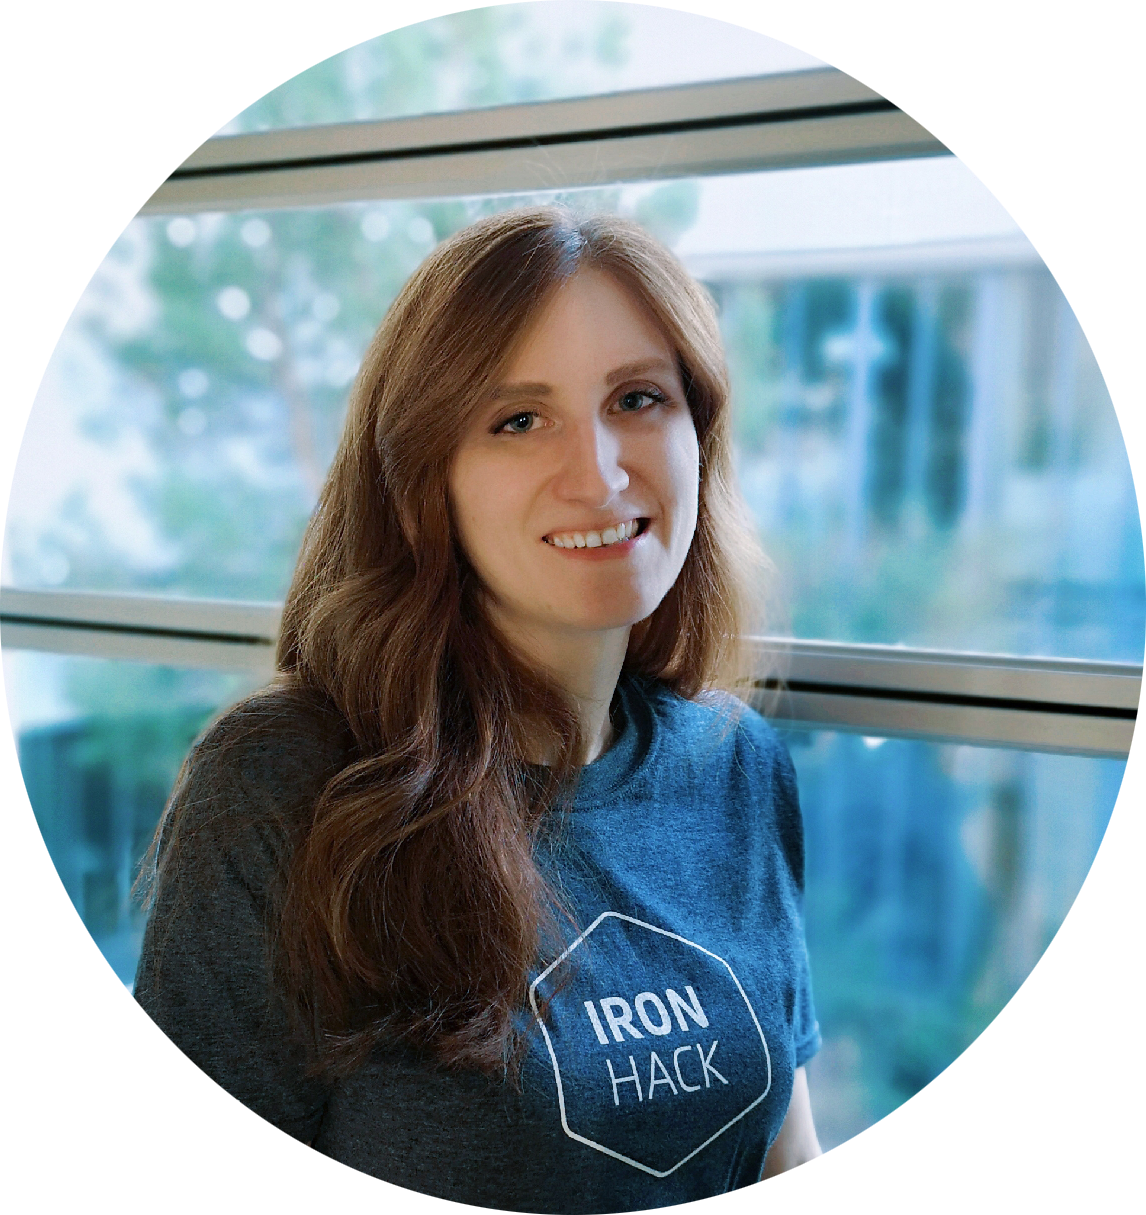
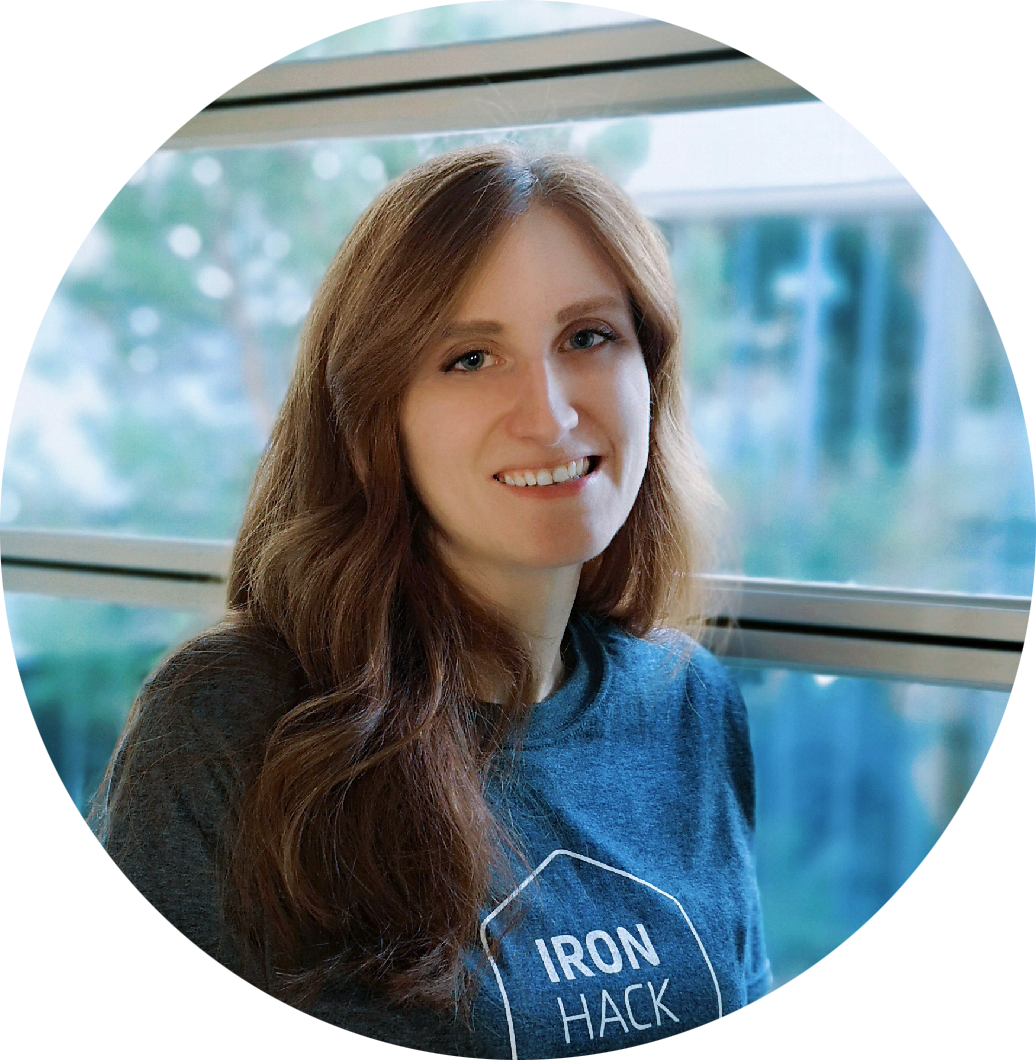
adjusting photo

diff --git a/css/new-age.min.css b/css/new-age.min.css
@@ -2,4 +2,4 @@
  * Start Bootstrap - New Age v5.0.7 (https://startbootstrap.com/template-overviews/new-age)
  * Copyright 2013-2019 Start Bootstrap
  * Licensed under MIT (https://github.com/BlackrockDigital/startbootstrap-new-age/blob/master/LICENSE)
- */body,html{width:100%;height:100%}body{font-family:Muli,Helvetica,Arial,sans-serif}a{color:#fdcc52;transition:all .35s;margin:5px;}a:focus,a:hover{color:#fcbd20}hr{max-width:100px;margin:20px auto 0;border-width:1px;border-color:rgba(34,34,34,.1)}hr.light{border-color:#fff}h1,h2,h3,h4,h5,h6{font-family:Catamaran,Helvetica,Arial,sans-serif;font-weight:200;letter-spacing:1px}p{font-size:18px;line-height:1.5;margin-bottom:20px}section{padding:100px 0}section h2{font-size:50px}#mainNav{border-color:rgba(34,34,34,.05);background-color:#fff;transition:all .35s;font-family:Catamaran,Helvetica,Arial,sans-serif;font-weight:200;letter-spacing:1px}#mainNav .navbar-brand{color:#fdcc52;font-family:Catamaran,Helvetica,Arial,sans-serif;font-weight:200;letter-spacing:1px}#mainNav .navbar-brand:focus,#mainNav .navbar-brand:hover{color:#fcbd20}#mainNav .navbar-toggler{font-size:12px;padding:8px 10px;color:#222}#mainNav .navbar-nav>li>a{font-size:11px;font-family:Lato,Helvetica,Arial,sans-serif;letter-spacing:2px;text-transform:uppercase}#mainNav .navbar-nav>li>a.active{color:#fdcc52!important;background-color:transparent}#mainNav .navbar-nav>li>a.active:hover{background-color:transparent}#mainNav .navbar-nav>li>a,#mainNav .navbar-nav>li>a:focus{color:#222}#mainNav .navbar-nav>li>a:focus:hover,#mainNav .navbar-nav>li>a:hover{color:#fdcc52}@media (min-width:992px){#mainNav{border-color:transparent;background-color:transparent}#mainNav .navbar-brand{color:fade(white,70%)}#mainNav .navbar-brand:focus,#mainNav .navbar-brand:hover{color:#fff}#mainNav .navbar-nav>li>a,#mainNav .navbar-nav>li>a:focus{color:rgba(255,255,255,.7)}#mainNav .navbar-nav>li>a:focus:hover,#mainNav .navbar-nav>li>a:hover{color:#fff}#mainNav.navbar-shrink{border-color:rgba(34,34,34,.1);background-color:#fff}#mainNav.navbar-shrink .navbar-brand{color:#222}#mainNav.navbar-shrink .navbar-brand:focus,#mainNav.navbar-shrink .navbar-brand:hover{color:#fdcc52}#mainNav.navbar-shrink .navbar-nav>li>a,#mainNav.navbar-shrink .navbar-nav>li>a:focus{color:#222}#mainNav.navbar-shrink .navbar-nav>li>a:focus:hover,#mainNav.navbar-shrink .navbar-nav>li>a:hover{color:#fdcc52}}header.masthead{position:relative;width:100%;padding-top:150px;padding-bottom:100px;color:#fff;background:url(../img/bg-pattern.png),#7b4397;background:url(../img/bg-pattern.png),linear-gradient(to left,#7b4397,#dc2430)}header.masthead .header-content{max-width:500px;margin-bottom:100px;text-align:center}header.masthead .header-content h1{font-size:30px}header.masthead .device-container{max-width:350px;margin-right:auto;margin-left:auto}header.masthead .device-container .screen img{border-radius:3px}@media (min-width:1092px){header.masthead{height:100vh;min-height:775px;padding-top:0;padding-bottom:0}header.masthead .header-content{margin-bottom:0;text-align:left}header.masthead .header-content h1{font-size:50px}header.masthead .device-container{max-width:370px}}section.download{position:relative;padding:150px 0}section.download h2{font-size:50px;margin-top:0}section.download .badges .badge-link{display:block;margin-bottom:25px}section.download .badges .badge-link:last-child{margin-bottom:0}section.download .badges .badge-link img{height:60px}@media (min-width:768px){section.download .badges .badge-link{display:inline-block;margin-bottom:0}}@media (min-width:768px){section.download h2{font-size:70px}}section.features .section-heading{margin-bottom:50px}section.features .section-heading h2{margin-top:0}section.features .section-heading p{margin-bottom:0}section.features .device-container,section.features .feature-item{max-width:325px;margin:0 auto}section.features .device-container{margin-bottom:100px}@media (min-width:992px){section.features .device-container{margin-bottom:0}}section.features .feature-item{padding-top:50px;padding-bottom:50px;text-align:center}section.features .feature-item h3{font-size:30px}section.features .feature-item i{font-size:80px;display:block;margin-bottom:15px;background:linear-gradient(to left,#7b4397,#dc2430);-webkit-background-clip:text;-webkit-text-fill-color:transparent}section.cta{position:relative;padding:150px 0;background-image:url(../img/bg-cta.jpg);background-position:center;background-size:cover}section.cta .cta-content{position:relative;z-index:1}section.cta .cta-content h2{font-size:50px;max-width:450px;margin-top:0;margin-bottom:25px;color:#fff}@media (min-width:768px){section.cta .cta-content h2{font-size:80px}}section.cta .overlay{position:absolute;top:0;left:0;width:100%;height:100%;background-color:rgba(0,0,0,.5)}section.contact{text-align:center}section.contact h2{margin-top:0;margin-bottom:25px}section.contact h2 i{color:#dd4b39}section.contact ul.list-social{margin-bottom:0}section.contact ul.list-social li a{font-size:40px;line-height:80px;display:block;width:80px;height:80px;color:#fff;border-radius:100%}section.contact ul.list-social li.social-twitter a{background-color:#1da1f2}section.contact ul.list-social li.social-twitter a:hover{background-color:#0d95e8}section.contact ul.list-social li.social-facebook a{background-color:#3b5998}section.contact ul.list-social li.social-facebook a:hover{background-color:#344e86}section.contact ul.list-social li.social-google-plus a{background-color:#dd4b39}section.contact ul.list-social li.social-google-plus a:hover{background-color:#d73925}footer{padding:25px 0;text-align:center;color:rgba(255,255,255,.3);background-color:#222}footer p{font-size:12px;margin:0}footer ul{margin-bottom:0}footer ul li a{font-size:12px;color:rgba(255,255,255,.3)}footer ul li a.active,footer ul li a:active,footer ul li a:focus,footer ul li a:hover{text-decoration:none}.bg-primary{background:#fdcc52;background:linear-gradient(#fdcc52,#fdc539)}.text-primary{color:#fdcc52}.no-gutter>[class*=col-]{padding-right:0;padding-left:0}.btn-outline{color:#fff;border:1px solid;border-color:#fff}.btn-outline.active,.btn-outline:active,.btn-outline:focus,.btn-outline:hover{color:#fff;border-color:#fdcc52;background-color:#fdcc52}.btn{border-radius:300px;font-family:Lato,Helvetica,Arial,sans-serif;letter-spacing:2px;text-transform:uppercase}.btn-xl{font-size:11px;padding:15px 45px}
+ */body,html{width:100%;height:100%}body{font-family:Muli,Helvetica,Arial,sans-serif}a{color:#fdcc52;transition:all .35s;margin:5px;}a:focus,a:hover{color:#fcbd20}hr{max-width:100px;margin:20px auto 0;border-width:1px;border-color:rgba(34,34,34,.1)}hr.light{border-color:#fff}h1,h2,h3,h4,h5,h6{font-family:Catamaran,Helvetica,Arial,sans-serif;font-weight:200;letter-spacing:1px}p{font-size:18px;line-height:1.5;margin-bottom:20px}section{padding:100px 0}section h2{font-size:50px}#mainNav{border-color:rgba(34,34,34,.05);background-color:#fff;transition:all .35s;font-family:Catamaran,Helvetica,Arial,sans-serif;font-weight:200;letter-spacing:1px}#mainNav .navbar-brand{color:#fdcc52;font-family:Catamaran,Helvetica,Arial,sans-serif;font-weight:200;letter-spacing:1px}#mainNav .navbar-brand:focus,#mainNav .navbar-brand:hover{color:#fcbd20}#mainNav .navbar-toggler{font-size:12px;padding:8px 10px;color:#222}#mainNav .navbar-nav>li>a{font-size:11px;font-family:Lato,Helvetica,Arial,sans-serif;letter-spacing:2px;text-transform:uppercase}#mainNav .navbar-nav>li>a.active{color:#fdcc52!important;background-color:transparent}#mainNav .navbar-nav>li>a.active:hover{background-color:transparent}#mainNav .navbar-nav>li>a,#mainNav .navbar-nav>li>a:focus{color:#222}#mainNav .navbar-nav>li>a:focus:hover,#mainNav .navbar-nav>li>a:hover{color:#fdcc52}@media (min-width:992px){#mainNav{border-color:transparent;background-color:transparent}#mainNav .navbar-brand{color:fade(white,70%)}#mainNav .navbar-brand:focus,#mainNav .navbar-brand:hover{color:#fff}#mainNav .navbar-nav>li>a,#mainNav .navbar-nav>li>a:focus{color:rgba(255,255,255,.7)}#mainNav .navbar-nav>li>a:focus:hover,#mainNav .navbar-nav>li>a:hover{color:#fff}#mainNav.navbar-shrink{border-color:rgba(34,34,34,.1);background-color:#fff}#mainNav.navbar-shrink .navbar-brand{color:#222}#mainNav.navbar-shrink .navbar-brand:focus,#mainNav.navbar-shrink .navbar-brand:hover{color:#fdcc52}#mainNav.navbar-shrink .navbar-nav>li>a,#mainNav.navbar-shrink .navbar-nav>li>a:focus{color:#222}#mainNav.navbar-shrink .navbar-nav>li>a:focus:hover,#mainNav.navbar-shrink .navbar-nav>li>a:hover{color:#fdcc52}}header.masthead{position:relative;width:100%;padding-top:150px;padding-bottom:100px;color:#fff;background:url(../img/bg-pattern.png),#7b4397;background:url(../img/bg-pattern.png),linear-gradient(to left,#7b4397,#dc2430)}header.masthead .header-content{max-width:500px;margin-bottom:100px;text-align:center}header.masthead .header-content h1{font-size:30px}header.masthead .device-container{max-width:340px;margin-right:auto;margin-left:auto}header.masthead .device-container .screen img{border-radius:3px}@media (min-width:1092px){header.masthead{height:100vh;min-height:775px;padding-top:0;padding-bottom:0}header.masthead .header-content{margin-bottom:0;text-align:left}header.masthead .header-content h1{font-size:50px}header.masthead .device-container{max-width:360px}}section.download{position:relative;padding:150px 0}section.download h2{font-size:50px;margin-top:0}section.download .badges .badge-link{display:block;margin-bottom:25px}section.download .badges .badge-link:last-child{margin-bottom:0}section.download .badges .badge-link img{height:60px}@media (min-width:768px){section.download .badges .badge-link{display:inline-block;margin-bottom:0}}@media (min-width:768px){section.download h2{font-size:70px}}section.features .section-heading{margin-bottom:50px}section.features .section-heading h2{margin-top:0}section.features .section-heading p{margin-bottom:0}section.features .device-container,section.features .feature-item{max-width:325px;margin:0 auto}section.features .device-container{margin-bottom:100px}@media (min-width:992px){section.features .device-container{margin-bottom:0}}section.features .feature-item{padding-top:50px;padding-bottom:50px;text-align:center}section.features .feature-item h3{font-size:30px}section.features .feature-item i{font-size:80px;display:block;margin-bottom:15px;background:linear-gradient(to left,#7b4397,#dc2430);-webkit-background-clip:text;-webkit-text-fill-color:transparent}section.cta{position:relative;padding:150px 0;background-image:url(../img/bg-cta.jpg);background-position:center;background-size:cover}section.cta .cta-content{position:relative;z-index:1}section.cta .cta-content h2{font-size:50px;max-width:450px;margin-top:0;margin-bottom:25px;color:#fff}@media (min-width:768px){section.cta .cta-content h2{font-size:80px}}section.cta .overlay{position:absolute;top:0;left:0;width:100%;height:100%;background-color:rgba(0,0,0,.5)}section.contact{text-align:center}section.contact h2{margin-top:0;margin-bottom:25px}section.contact h2 i{color:#dd4b39}section.contact ul.list-social{margin-bottom:0}section.contact ul.list-social li a{font-size:40px;line-height:80px;display:block;width:80px;height:80px;color:#fff;border-radius:100%}section.contact ul.list-social li.social-twitter a{background-color:#1da1f2}section.contact ul.list-social li.social-twitter a:hover{background-color:#0d95e8}section.contact ul.list-social li.social-facebook a{background-color:#3b5998}section.contact ul.list-social li.social-facebook a:hover{background-color:#344e86}section.contact ul.list-social li.social-google-plus a{background-color:#dd4b39}section.contact ul.list-social li.social-google-plus a:hover{background-color:#d73925}footer{padding:25px 0;text-align:center;color:rgba(255,255,255,.3);background-color:#222}footer p{font-size:12px;margin:0}footer ul{margin-bottom:0}footer ul li a{font-size:12px;color:rgba(255,255,255,.3)}footer ul li a.active,footer ul li a:active,footer ul li a:focus,footer ul li a:hover{text-decoration:none}.bg-primary{background:#fdcc52;background:linear-gradient(#fdcc52,#fdc539)}.text-primary{color:#fdcc52}.no-gutter>[class*=col-]{padding-right:0;padding-left:0}.btn-outline{color:#fff;border:1px solid;border-color:#fff}.btn-outline.active,.btn-outline:active,.btn-outline:focus,.btn-outline:hover{color:#fff;border-color:#fdcc52;background-color:#fdcc52}.btn{border-radius:300px;font-family:Lato,Helvetica,Arial,sans-serif;letter-spacing:2px;text-transform:uppercase}.btn-xl{font-size:11px;padding:15px 45px}
